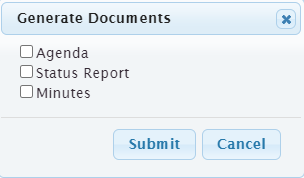
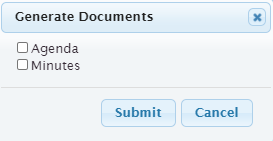
Meeting Status Report generation - continuous status report generation (#306)

diff --git a/members/static/admin/beforedatatables.js b/members/static/admin/beforedatatables.js
@@ -127,12 +127,10 @@ function meeting_generate_docs(url) {
         that.processing(true);
 
         // allUrlParams() picks up at least meeting_id
+        // names must match reports.meeting_reports (python)
         var form = $('<form>', {id: 'doc-form', action: url + '?' + setParams(allUrlParams()), method:'POST'})
         form.append($('<input>', {type: 'checkbox', id:  'agenda', name: 'agenda'}));
         form.append($('<label>', {for: 'agenda', text: 'Agenda'}));
-        form.append($('<br>'));
-        form.append($('<input>', {type: 'checkbox', id:  'status-report', name: 'status-report'}));
-        form.append($('<label>', {for: 'status-report', text: 'Status Report'}));
         form.append($('<br>'));
         form.append($('<input>', {type: 'checkbox', id:  'minutes', name: 'minutes'}));
         form.append($('<label>', {for: 'minutes', text: 'Minutes'}));

diff --git a/scripts/meetings_cli.py b/scripts/meetings_cli.py
@@ -4,7 +4,7 @@ meeting_cli - background tasks needed for meeting management
 
 # standard
 from re import match
-from datetime import date, timedelta
+from datetime import date, timedelta, datetime
 
 # pypi
 from flask import g
@@ -13,9 +13,9 @@ from click import argument, group
 
 # homegrown
 from scripts import catch_errors, ParameterError
-from members.model import db, Meeting, Invite, localinterest_query_params
+from members.model import db, Meeting, Invite, StatusReport, DiscussionItem, localinterest_query_params
 from members.meeting_invites import generateinvites
-from members.reports import meeting_gen_reports, meeting_reports_premeeting, meeting_report2attr
+from members.reports import meeting_gen_reports, meeting_reports_nightly, meeting_reports_status, meeting_report2attr
 from loutilities.timeu import asctime
 
 
@@ -113,7 +113,7 @@ def updateinvites(interest, startdate):
 @argument('startdate', default='auto')
 @with_appcontext
 @catch_errors
-def regenreports(interest, startdate):
+def nightlyreports(interest, startdate):
     """
     for all future meetings, regenerate reports
     """
@@ -123,15 +123,14 @@ def regenreports(interest, startdate):
     # set local interest
     g.interest = interest
 
-
     # for all the meetings after or equal to start, generate reports, but only if the report has been previously generated
     futuremeetings = Meeting.query.filter_by(**localinterest_query_params()).filter(Meeting.date >= start).all()
     for meeting in futuremeetings:
 
         # determine which reports have been generated already
-        # we're only regenerating reports which happen pre-meeting
+        # we're only regenerating reports which happen nightly
         reports = []
-        for report in meeting_reports_premeeting:
+        for report in meeting_reports_nightly:
             if getattr(meeting, meeting_report2attr[report]):
                 reports.append(report)
 
@@ -139,5 +138,47 @@ def regenreports(interest, startdate):
             reportsgenned = meeting_gen_reports(meeting.id, reports)
 
         # this actually shouldn't be required, but shouldn't hurt
+        db.session.commit()
+
+@meetings.command()
+@argument('interest')
+@argument('startdate', default='auto')
+@with_appcontext
+@catch_errors
+def continuousreports(interest, startdate):
+    """
+    for up to the minute reports (status report), (re)generate reports if needed
+    """
+    # calculate start date
+    start = getstartdate(startdate)
+
+    # set local interest
+    g.interest = interest
+
+    # for all the meetings after or equal to start, generate reports
+    futuremeetings = Meeting.query.filter_by(**localinterest_query_params()).filter(Meeting.date >= start).all()
+    for meeting in futuremeetings:
+
+        # we're (re)generating reports which happen continuously
+        # but we may not need to, so that's the default unless proven otherwise
+        reports = []
+
+        # if report has been generated, regenerate if any status reports or discussion items have been updated
+        # since the last time the report was generated
+        if meeting.last_status_gen:
+            statussince = StatusReport.query.filter(StatusReport.update_time >= meeting.last_status_gen).all()
+            discusssince = DiscussionItem.query.filter(DiscussionItem.update_time >= meeting.last_status_gen).all()
+            if statussince or discusssince:
+                reports = [meeting_reports_status]
+
+        # else no report generated yet, so generate for the first time
+        else:
+            reports = [meeting_reports_status]
+
+        if reports:
+            reportsgenned = meeting_gen_reports(meeting.id, reports)
+            meeting.last_status_gen = datetime.now()
+
+        # we may have updated meeting
         db.session.commit()
 

diff --git a/members/model.py b/members/model.py
@@ -5,6 +5,8 @@ models - database models for application
 
 # pypi
 from flask import g
+from sqlalchemy import text
+from sqlalchemy.schema import FetchedValue
 
 # home grown
 # need to use a single SQLAlchemy() instance, so pull from loutilities.user.model
@@ -279,6 +281,7 @@ class TaskCompletion(Base):
     task_id             = Column(Integer, ForeignKey('task.id'))
     task                = relationship('Task', backref=backref('taskcompletions'))
     completion          = Column(DateTime)
+    # track last update
     update_time         = Column(DateTime)
     updated_by          = Column(Integer)   # localuser.id
     version_id = Column(Integer, nullable=False, default=1)
@@ -334,6 +337,8 @@ class Meeting(Base):
     gs_status           = Column(Text)
     gs_agenda           = Column(Text)
     gs_minutes          = Column(Text)
+    # keep track of last time status generated
+    last_status_gen     = Column(DateTime)
 
     version_id = Column(Integer, nullable=False, default=1)
     __mapper_args__ = {
@@ -383,6 +388,11 @@ class DiscussionItem(Base):
     agendaitem          = relationship('AgendaItem', backref=backref('discussionitem', uselist=False))
     statusreport_id     = Column(Integer, ForeignKey('statusreport.id'))
     statusreport        = relationship('StatusReport', backref=backref('discussionitems'))
+    # track last update - https://docs.sqlalchemy.org/en/13/dialects/mysql.html#mysql-timestamp-onupdate
+    update_time         = Column(DateTime,
+                                 server_default=text("CURRENT_TIMESTAMP ON UPDATE CURRENT_TIMESTAMP"),
+                                 server_onupdate=FetchedValue()
+                                 )
     version_id = Column(Integer, nullable=False, default=1)
     __mapper_args__ = {
         'version_id_col': version_id
@@ -400,6 +410,11 @@ class StatusReport(Base):
     position            = relationship('Position', backref=backref('statusreports'))
     title               = Column(String(TITLE_LEN))
     statusreport        = Column(Text)
+    # track last update - https://docs.sqlalchemy.org/en/13/dialects/mysql.html#mysql-timestamp-onupdate
+    update_time         = Column(DateTime,
+                                 server_default=text("CURRENT_TIMESTAMP ON UPDATE CURRENT_TIMESTAMP"),
+                                 server_onupdate=FetchedValue()
+                                 )
     version_id = Column(Integer, nullable=False, default=1)
     __mapper_args__ = {
         'version_id_col': version_id

diff --git a/migrations/versions/5f0bc492bb41_meetings_module_automatic_status_report_.py b/migrations/versions/5f0bc492bb41_meetings_module_automatic_status_report_.py
@@ -1,0 +1,55 @@
+"""Meetings Module: automatic status report generation
+
+Revision ID: 5f0bc492bb41
+Revises: 6c091e0fbcbe
+Create Date: 2020-11-04 12:36:29.454946
+
+"""
+from alembic import op
+import sqlalchemy as sa
+
+
+# revision identifiers, used by Alembic.
+revision = '5f0bc492bb41'
+down_revision = '6c091e0fbcbe'
+branch_labels = None
+depends_on = None
+
+
+def upgrade(engine_name):
+    globals()["upgrade_%s" % engine_name]()
+
+
+def downgrade(engine_name):
+    globals()["downgrade_%s" % engine_name]()
+
+
+
+
+
+def upgrade_():
+    # ### commands auto generated by Alembic - please adjust! ###
+    op.add_column('discussionitem', sa.Column('update_time', sa.DateTime(), server_default=sa.text('CURRENT_TIMESTAMP ON UPDATE CURRENT_TIMESTAMP'), nullable=True))
+    op.add_column('meeting', sa.Column('last_status_gen', sa.DateTime(), nullable=True))
+    op.add_column('statusreport', sa.Column('update_time', sa.DateTime(), server_default=sa.text('CURRENT_TIMESTAMP ON UPDATE CURRENT_TIMESTAMP'), nullable=True))
+    # ### end Alembic commands ###
+
+def downgrade_():
+    # ### commands auto generated by Alembic - please adjust! ###
+    op.drop_column('statusreport', 'update_time')
+    op.drop_column('meeting', 'last_status_gen')
+    op.drop_column('discussionitem', 'update_time')
+    # ### end Alembic commands ###
+
+
+def upgrade_users():
+    # ### commands auto generated by Alembic - please adjust! ###
+    pass
+    # ### end Alembic commands ###
+
+
+def downgrade_users():
+    # ### commands auto generated by Alembic - please adjust! ###
+    pass
+    # ### end Alembic commands ###
+

diff --git a/members/reports.py b/members/reports.py
@@ -24,9 +24,10 @@ from loutilities.nesteddict import obj2dict
 
 # must match doc keys in meeting_gen_reports(), and names attrs in beforedatatables.js: meeting_generate_docs()
 meeting_reports = ['agenda', 'status-report', 'minutes']
-meeting_reports_premeeting = ['agenda', 'status-report']
 meeting_report_attrs = ['gs_agenda', 'gs_status', 'gs_minutes']
 meeting_report2attr = dict(zip(meeting_reports, meeting_report_attrs))
+meeting_reports_nightly = ['agenda']
+meeting_reports_status = 'status-report'
 
 def meeting_gen_reports(meeting_id, reports):
     """
